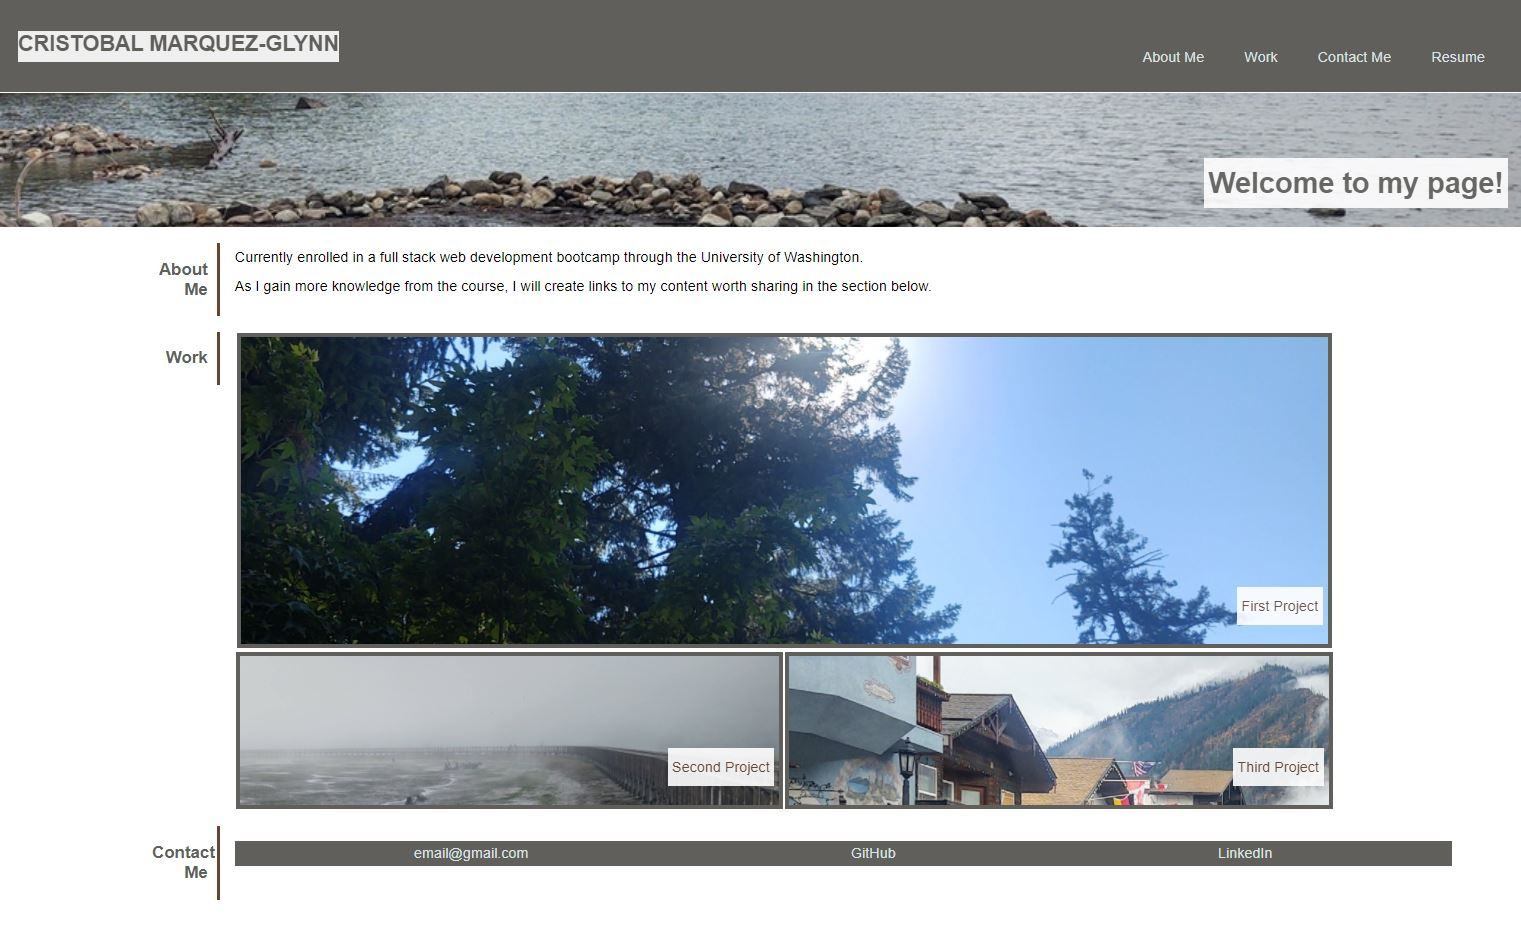
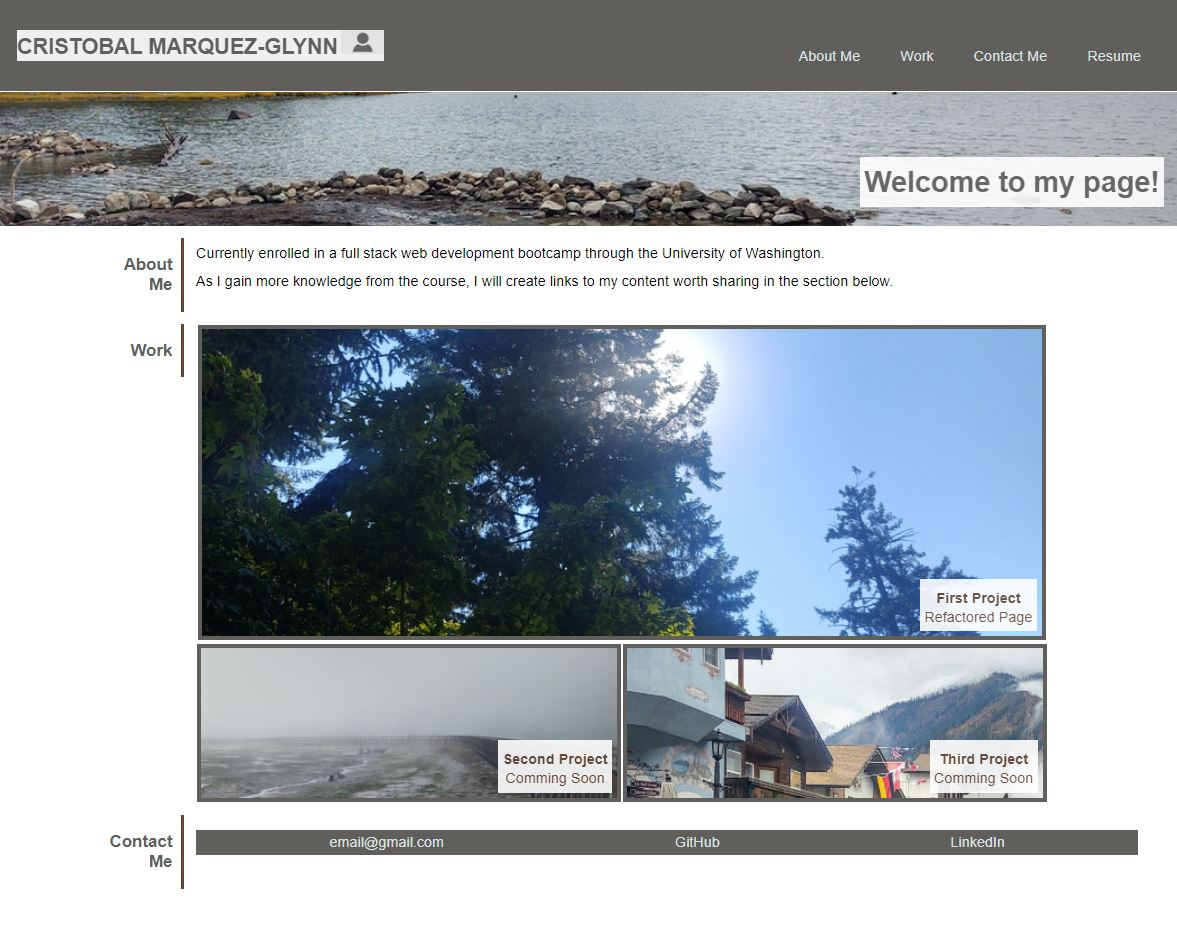
updated links in HTML and updated README file

diff --git a/index.html b/index.html
@@ -41,19 +41,22 @@
          <h1 id="Work">Work</h1>
         </section>
         <section class="info-text">
-            <a class="block" href="http://www.google.com" target="blank">
-                <div>
-                    <p class="ProjectName">First Project</p>
+            <a class="block" href="https://github.com/CM-GDev/semantic-markup" target="blank">
+                <div class="ProjectName">
+                    <h4>First Project</h4>
+                    <p>Refactored Page</p>
                 </div>
             </a>
             <a class="block" id="half-block1" href="http://www.google.com" target="blank">
-                <div>
-                    <p class="ProjectName">Second Project</p>
+                <div class="ProjectName">
+                    <h4>Second Project</h4>
+                    <p>Comming Soon</p>
                 </div>
             </a>
             <a class="block" id="half-block2" href="http://www.google.com" target="blank">
-                <div>
-                    <p class="ProjectName">Third Project</p>
+                <div class="ProjectName">
+                    <h4>Third Project</h4>
+                    <p>Comming Soon</p>
                 </div>
             </a>
         </section>
@@ -66,8 +69,8 @@
         <section class="info-text">
             <p id="contactLinks">
                 <a href="http://www.google.com" target="blank">email@gmail.com</a>
-                <a href="http://www.github.com" target="blank">GitHub</a>
-                <a href="http://www.linkedin.com" target="blank">LinkedIn</a>
+                <a href="https://github.com/CM-GDev" target="blank">GitHub</a>
+                <a href="https://www.linkedin.com/in/cristobal-marquez-glynn-engineer/" target="blank">LinkedIn</a>
             </p>
         </section>
       </article>      

diff --git a/assets/css/style.css b/assets/css/style.css
@@ -2,7 +2,7 @@
     box-sizing: border-box;
   }
  a:hover {
-    font-weight: bold;
+    font-style: italic;
  } 
 
  a:link {
@@ -80,9 +80,10 @@
     display: flex;
     margin-left: 10%;
     width: 75px;
-    height: 100%;
+    /* height: 100%; */
     border-right-style: solid;
     border-color: var(--redish);
+    justify-content: end;
     text-align: end;
     color: var(--gray-dark);
     padding-right: 10px;
@@ -131,7 +132,9 @@
     color: var(--redish);
     background: var(--white);
     opacity: 90%;
-    padding: 5px;
+    padding: 0px 5px;
+    text-align: center;
+    line-height: 1%;
   }
 
   #contactLinks {
@@ -145,7 +148,15 @@
   #contactLinks a {
     color: var(--gray-light);
   }
-
+  
+  /* Use an attribute selector to select all <a> elements that have an href value that ends with '.css' */
+  nav h1::after {
+    content: url("../images/avatar.png");
+    height: fit-content;
+    display: inline-block;
+    margin-left: 3px;
+  }
+  
   @media screen and (max-width: 768px) {
     main,
     nav,
